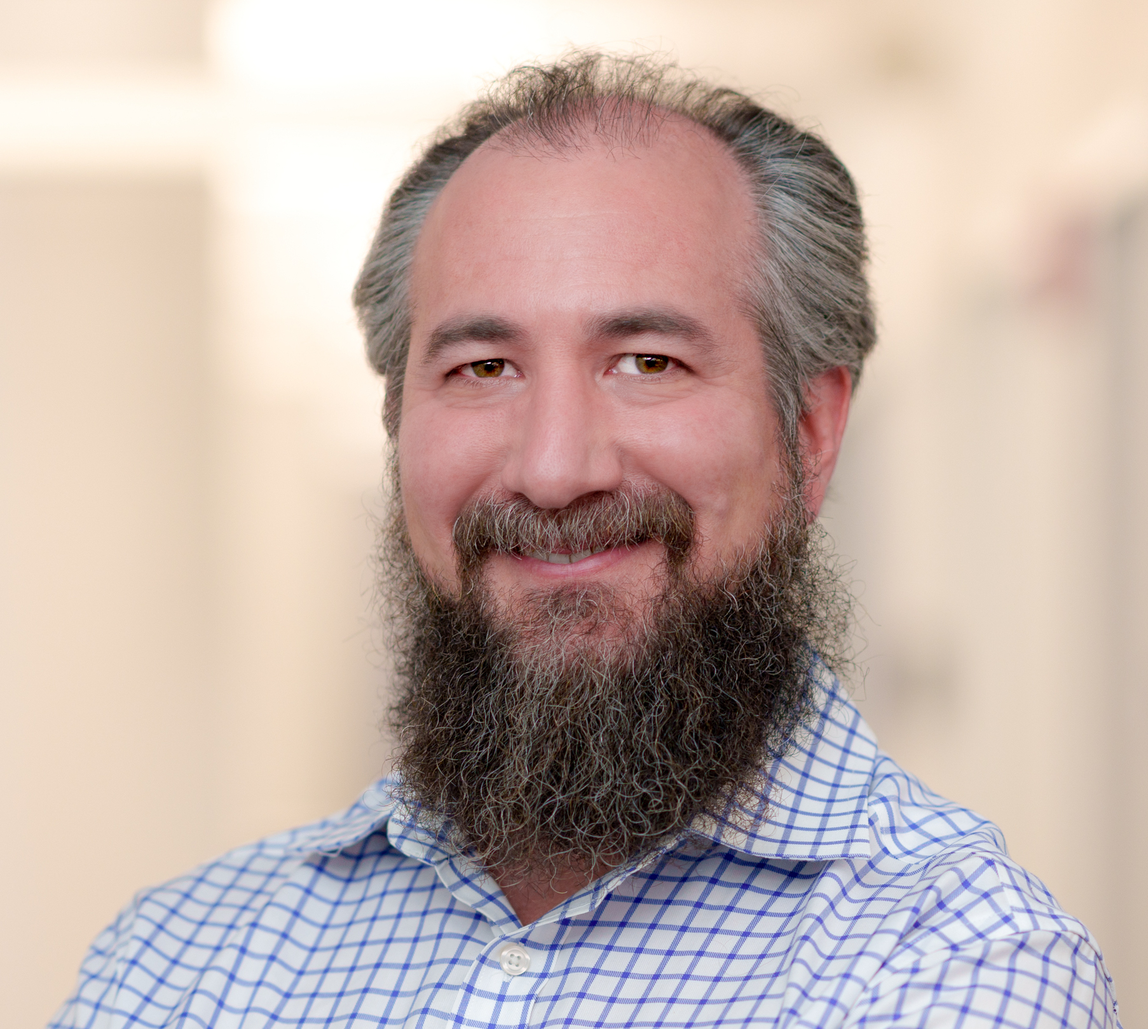
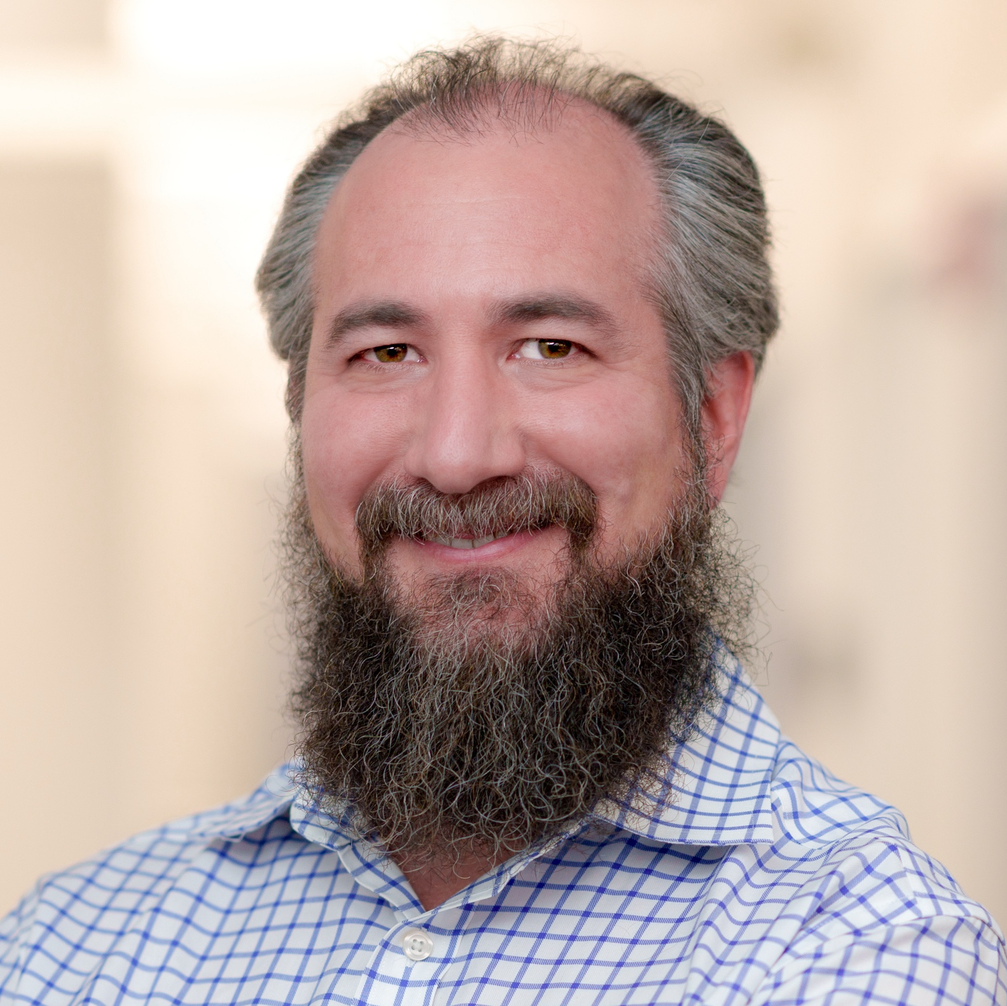
Woody Sherman on EC.

diff --git a/index.html b/index.html
@@ -711,6 +711,21 @@
                     </div>
                 </div>
             </div>
+            <div class="col-md-4 mb-5">
+                <div class="card h-100">
+                    <div class="card-body">
+                        <div class="profile-container">
+                            <div class="circular-image">
+                                <img src="./assets/teamMembers/WSherman.jpg" alt="Woody Sherman, PhD">
+                            </div>
+                            <div class="name">
+                                Woody Sherman, PhD<br>
+                                Chief Innovation Officer at Psivant Therapeutics
+                            </div>
+                        </div>
+                    </div>
+                </div>
+            </div>
         </div>
     </div>
 </div>
